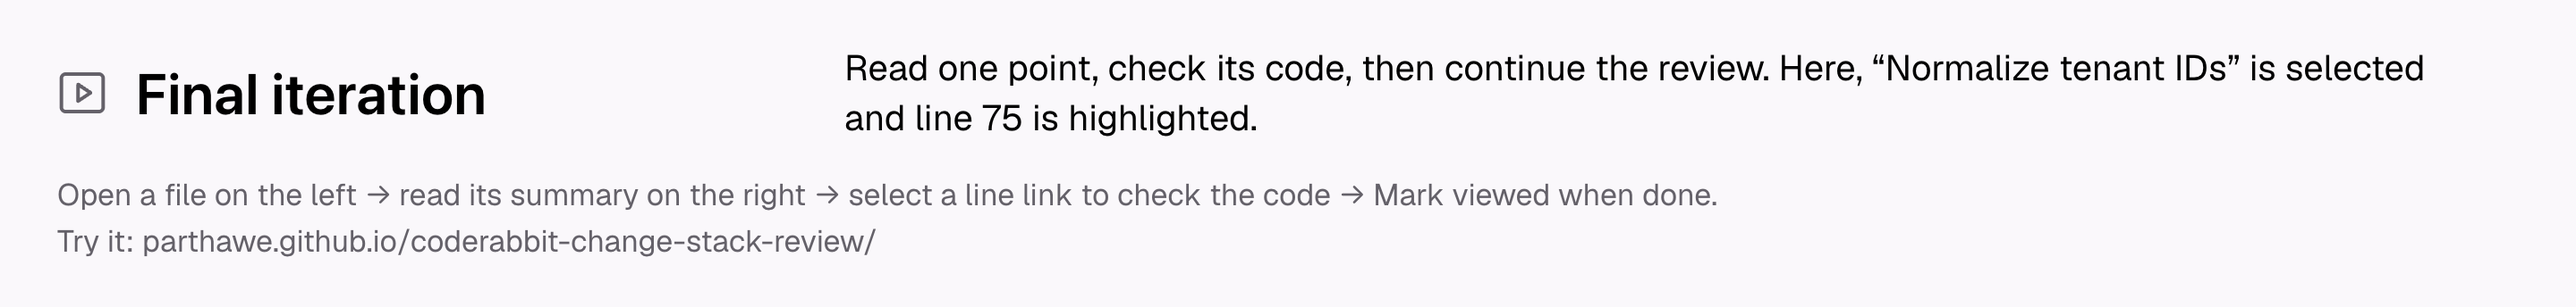
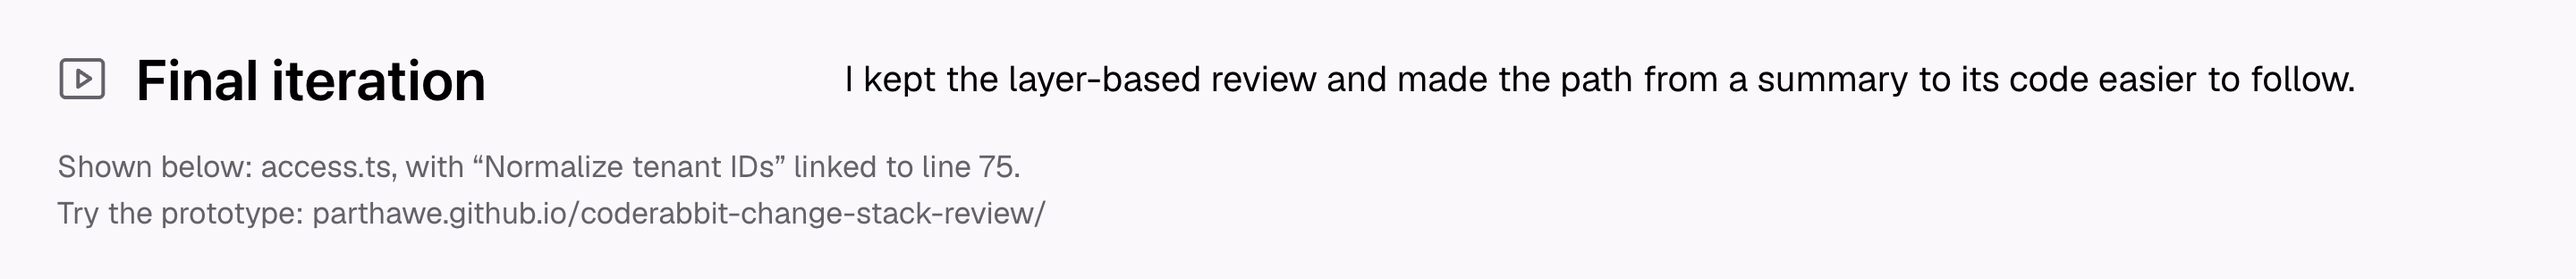
Simplify final Paper page around one screen and four changes

diff --git a/design/clean-submission/03c-what-changed.jsx b/design/clean-submission/03c-what-changed.jsx
@@ -1,0 +1,55 @@
+(
+    <div style={{ backgroundColor: '#FAF8FB', boxSizing: 'border-box', display: 'flex', flexDirection: 'column', fontSynthesis: 'none', gap: '28px', height: 'fit-content', MozOsxFontSmoothing: 'grayscale', overflow: 'clip', overflowWrap: 'anywhere', paddingBlock: '48px', paddingInline: '80px', WebkitFontSmoothing: 'antialiased', width: '1440px' }}>
+      <div style={{ boxSizing: 'border-box', display: 'flex', flexDirection: 'column', gap: '12px' }}>
+        <div style={{ alignItems: 'center', boxSizing: 'border-box', display: 'flex', flexShrink: '0', gap: '16px', width: '100%' }}>
+          <div style={{ boxSizing: 'border-box', color: '#000000', flex: 1, flexBasis: '0%', flexGrow: '1', fontFamily: '"Geist", system-ui, sans-serif', fontSize: '40px', fontWeight: 600, letterSpacing: '-0.02em', lineHeight: '48px', minWidth: '0px' }}>
+            What I changed
+          </div>
+        </div>
+      </div>
+      <div style={{ alignItems: 'start', boxSizing: 'border-box', display: 'flex', gap: '20px' }}>
+        <div style={{ boxSizing: 'border-box', color: '#65616A', flexShrink: '0', fontFamily: 'system-ui, sans-serif', fontSize: '20px', lineHeight: '28px', width: '28px' }}>
+          1
+        </div>
+        <div style={{ boxSizing: 'border-box', color: '#000000', flexShrink: '0', fontFamily: '"Geist", system-ui, sans-serif', fontSize: '20px', fontWeight: 600, lineHeight: '28px', width: '300px' }}>
+          Read, then inspect
+        </div>
+        <div style={{ boxSizing: 'border-box', color: '#000000', flexShrink: '0', fontFamily: '"Geist", system-ui, sans-serif', fontSize: '20px', lineHeight: '28px', width: '900px' }}>
+          A summary expands without moving the code. Each line link takes you to the relevant statement.
+        </div>
+      </div>
+      <div style={{ alignItems: 'start', boxSizing: 'border-box', display: 'flex', gap: '20px' }}>
+        <div style={{ boxSizing: 'border-box', color: '#65616A', flexShrink: '0', fontFamily: 'system-ui, sans-serif', fontSize: '20px', lineHeight: '28px', width: '28px' }}>
+          2
+        </div>
+        <div style={{ boxSizing: 'border-box', color: '#000000', flexShrink: '0', fontFamily: '"Geist", system-ui, sans-serif', fontSize: '20px', fontWeight: 600, lineHeight: '28px', width: '300px' }}>
+          Keep a way back
+        </div>
+        <div style={{ boxSizing: 'border-box', color: '#000000', flexShrink: '0', fontFamily: '"Geist", system-ui, sans-serif', fontSize: '20px', lineHeight: '28px', width: '900px' }}>
+          Files sit under their layer. Inspect guard opens the dependency; Return brings you back to your place.
+        </div>
+      </div>
+      <div style={{ alignItems: 'start', boxSizing: 'border-box', display: 'flex', gap: '20px' }}>
+        <div style={{ boxSizing: 'border-box', color: '#65616A', flexShrink: '0', fontFamily: '"Geist", system-ui, sans-serif', fontSize: '20px', lineHeight: '28px', width: '28px' }}>
+          3
+        </div>
+        <div style={{ boxSizing: 'border-box', color: '#000000', flexShrink: '0', fontFamily: '"Geist", system-ui, sans-serif', fontSize: '20px', fontWeight: 600, lineHeight: '28px', width: '300px' }}>
+          Know what is done
+        </div>
+        <div style={{ boxSizing: 'border-box', color: '#000000', flexShrink: '0', fontFamily: '"Geist", system-ui, sans-serif', fontSize: '20px', lineHeight: '28px', width: '900px' }}>
+          Mark viewed sits beside the filename and updates file progress. Reading a summary leaves that progress alone.
+        </div>
+      </div>
+      <div style={{ alignItems: 'start', boxSizing: 'border-box', display: 'flex', gap: '20px' }}>
+        <div style={{ boxSizing: 'border-box', color: '#65616A', flexShrink: '0', fontFamily: '"Geist", system-ui, sans-serif', fontSize: '20px', lineHeight: '28px', width: '28px' }}>
+          4
+        </div>
+        <div style={{ boxSizing: 'border-box', color: '#000000', flexShrink: '0', fontFamily: '"Geist", system-ui, sans-serif', fontSize: '20px', fontWeight: 600, lineHeight: '28px', width: '300px' }}>
+          Read findings in context
+        </div>
+        <div style={{ boxSizing: 'border-box', color: '#000000', flexShrink: '0', fontFamily: '"Geist", system-ui, sans-serif', fontSize: '20px', lineHeight: '28px', width: '900px' }}>
+          In Comments, resolution status comes first. Severity stays on the finding, with replies inside its thread.
+        </div>
+      </div>
+    </div>
+  )

diff --git a/design/clean-submission/03a-task.jsx b/design/clean-submission/03a-task.jsx
@@ -11,11 +11,11 @@
           </div>
         </div>
         <div style={{ boxSizing: 'border-box', color: '#000000', flexShrink: '0', fontFamily: '"Geist", system-ui, sans-serif', fontSize: '20px', lineHeight: '28px', width: '900px' }}>
-          Read one point, check its code, then continue the review. Here, “Normalize tenant IDs” is selected and line 75 is highlighted.
+          I kept the layer-based review and made the path from a summary to its code easier to follow.
         </div>
       </div>
       <div style={{ boxSizing: 'border-box', color: '#65616A', fontFamily: '"Geist", system-ui, sans-serif', fontSize: '17px', lineHeight: '26px', whiteSpace: 'pre-wrap' }}>
-        Open a file on the left → read its summary on the right → select a line link to check the code → Mark viewed when done.<br />Try it: parthawe.github.io/coderabbit-change-stack-review/
+        Shown below: access.ts, with “Normalize tenant IDs” linked to line 75.<br />Try the prototype: parthawe.github.io/coderabbit-change-stack-review/
       </div>
     </div>
   )

diff --git a/docs/clean-paper-submission.md b/docs/clean-paper-submission.md
@@ -6,14 +6,14 @@ Four Paper pages, with related boards kept at full size:
 
 1. **Problem & evidence.** Challenge and assumed developer beside the eight observations. Below, three evidence boards group related observations: 1–3, Finding the right code; 4–6, Keeping your place and progress; and 7–8, Reading status and filters. Each point keeps its numbered orange pointer and explanation. Points 1 and 2 share one summary capture. Overview filtering remains a follow-up.
 2. **Design decisions.** Four decision studies on one canvas, read left to right, then down. Summary behavior separates reading from navigation; a route diagram traces caller, guard and Return; a scope map explains control placement; and a resolved Major finding compares two reading orders. Alternatives explain what I kept or set aside. Each study states a cost or condition for revisiting the choice.
-3. **Final iteration.** The editable 1440 × 960 screen and working prototype link. Below it, the unannotated original and matched prototype captures sit side by side at full size.
+3. **Final iteration.** One editable 1440 × 960 screen, a short purpose statement and prototype link, followed by four plain-language change notes. Duplicate comparison screens are kept in the repository archive, outside the submission route.
 4. **Interactions & tradeoffs.** Six compact action-and-result flows and comment states on the first row, guard/Return and Focus on the second, and next checks below.
 
 Each decision study uses the captured task content and labels the sketches as current explorations. They are not A/B-test results. The original already supports summary navigation, complexity filters, comment severity/resolved filters and Focus. The changes refine those relationships and actions.
 
 The final screen, guard and Focus states share the compact source header. The added wordmark is removed. Sample progress lives in navigation. Gray indicates navigation, display and summary selection; orange highlights the linked code, and red/green retain diff meaning.
 
-Current 2× PNG and editable JSX exports are in design/clean-submission. The source and prototype screenshots are 2560 × 1440 browser captures at the same 1280 × 720 CSS viewport. Evidence sections 1–6 use enlarged, clipped details from that same source capture; annotations remain separate editable layers. The Overview crop is captured at 4× pixel density, giving 1344 × 760 pixels for its 672 × 380 Paper display. No AI image enhancement is used. The manifest maps 20 boards, including source details, states and captions, to the four Paper pages. Previous exports are recoverable from Git history. Earlier exploratory Paper work remains in the archive file 01M5AQACJZP42ZGTRX7GF9ERE7 and is not part of the submission route.
+Current 2× PNG and editable JSX exports are in design/clean-submission. The source and prototype screenshots are 2560 × 1440 browser captures at the same 1280 × 720 CSS viewport. Evidence sections 1–6 use enlarged, clipped details from that same source capture; annotations remain separate editable layers. The Overview crop is captured at 4× pixel density, giving 1344 × 760 pixels for its 672 × 380 Paper display. No AI image enhancement is used. The manifest maps 19 boards, including source details, states and captions, to the four Paper pages. Previous exports are recoverable from Git history. Earlier exploratory Paper work remains in the archive file 01M5AQACJZP42ZGTRX7GF9ERE7 and is not part of the submission route.
 
 Layout references came from [Chronicle’s gallery](https://chroniclehq.com/gallery), particularly the [Lovable case study](https://chroniclehq.com/gallery/lovable-case-study) and the [FlowOS sample proposal](https://chroniclehq.com/gallery/how-flowos-helps-openai-collaborate-faster). The opening uses a connected review flow; decision pages use diagrams suited to the choice; interaction descriptions place each action beside its result. These are layout references only. No reference images, claims or branding were copied into the submission.
 

diff --git a/docs/verification.md b/docs/verification.md
@@ -467,3 +467,8 @@ Reviewed all four rendered boards for type, spacing, alignment, contrast and cli
 Changed the selected statement to gray in Paper and the prototype; code range emphasis stays orange. The matched prototype uses a fresh 2560 × 1440 browser capture, with neutral pointers and no surrounding annotation boxes. Original evidence captures remain unchanged. The final-screen caption names the visible Normalize tenant IDs / L75 state and explains the file → summary → code → viewed sequence.
 
 Checked at 1280 × 720 and 1440 × 960. Summary expansion preserves diff scroll; Normalize tenant IDs selects line 75; Inspect guard and Return restore the selected access check; Focus returns to the summary. No page-width overflow. Exported five affected Paper boards at 2×. Updated rationale copy and verified its one-page PDF rendering. No developer usability test or measured improvement is claimed.
+
+
+## Final-page presentation cleanup · October 23
+
+Removed duplicate comparison captures from the final Paper page and archived their PNG/JSX exports. The final page now contains the editable screen, a brief purpose/click-through caption, and four change notes. Removed “matched prototype” labels and viewport/commit comparison details from that page. The original evidence and decision pages remain; product interactions are unchanged. Reviewed both updated sections for text fit, spacing and alignment, and refreshed the 2× exports and manifest.
